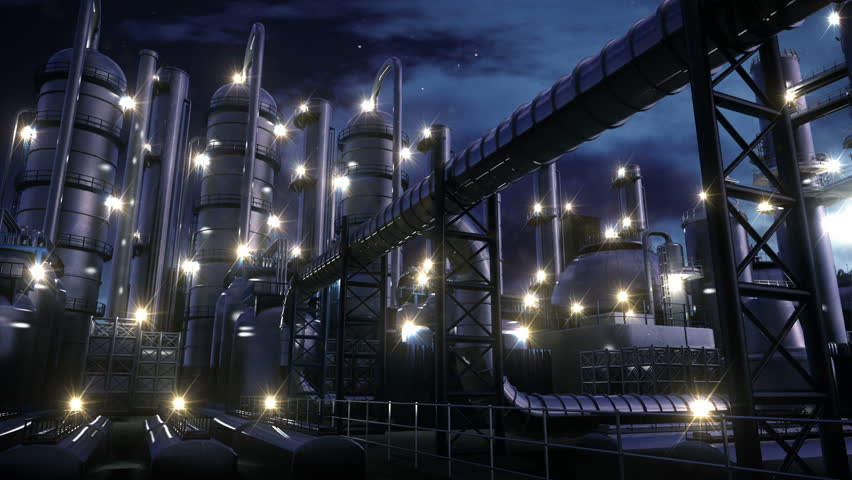
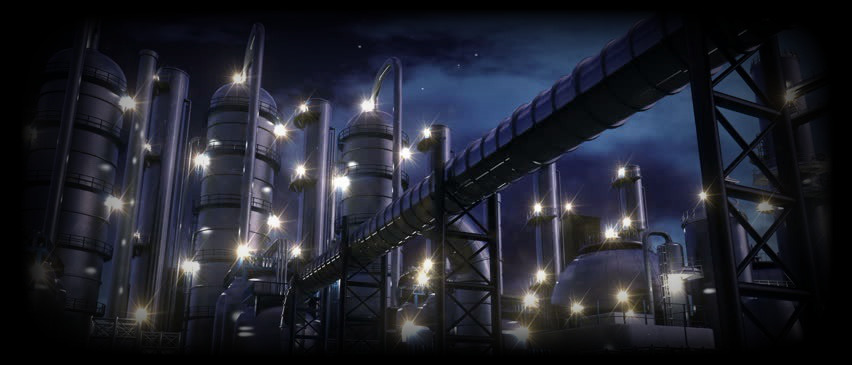
finalized header background and vignette style

diff --git a/assets/css/style.css b/assets/css/style.css
@@ -1,0 +1,15 @@
+body {
+	background-color: #000;
+}
+
+header {
+	background-image: url("../images/banner.jpg");
+	background-repeat: no-repeat;
+	background-position: center;
+	height: 365px;
+}
+
+.container {
+	max-width: 852px;
+	margin: auto;
+}

diff --git a/index.html b/index.html
@@ -9,8 +9,7 @@
 </head>
 
 <body>
-	<header>
-		<img src="assets/images/banner.jpg" alt="Banner Image">
+	<header class="container">
 		<h1>Chemical Engineering</h1>
 		<h2>Hangman</h2>
 	</header>
